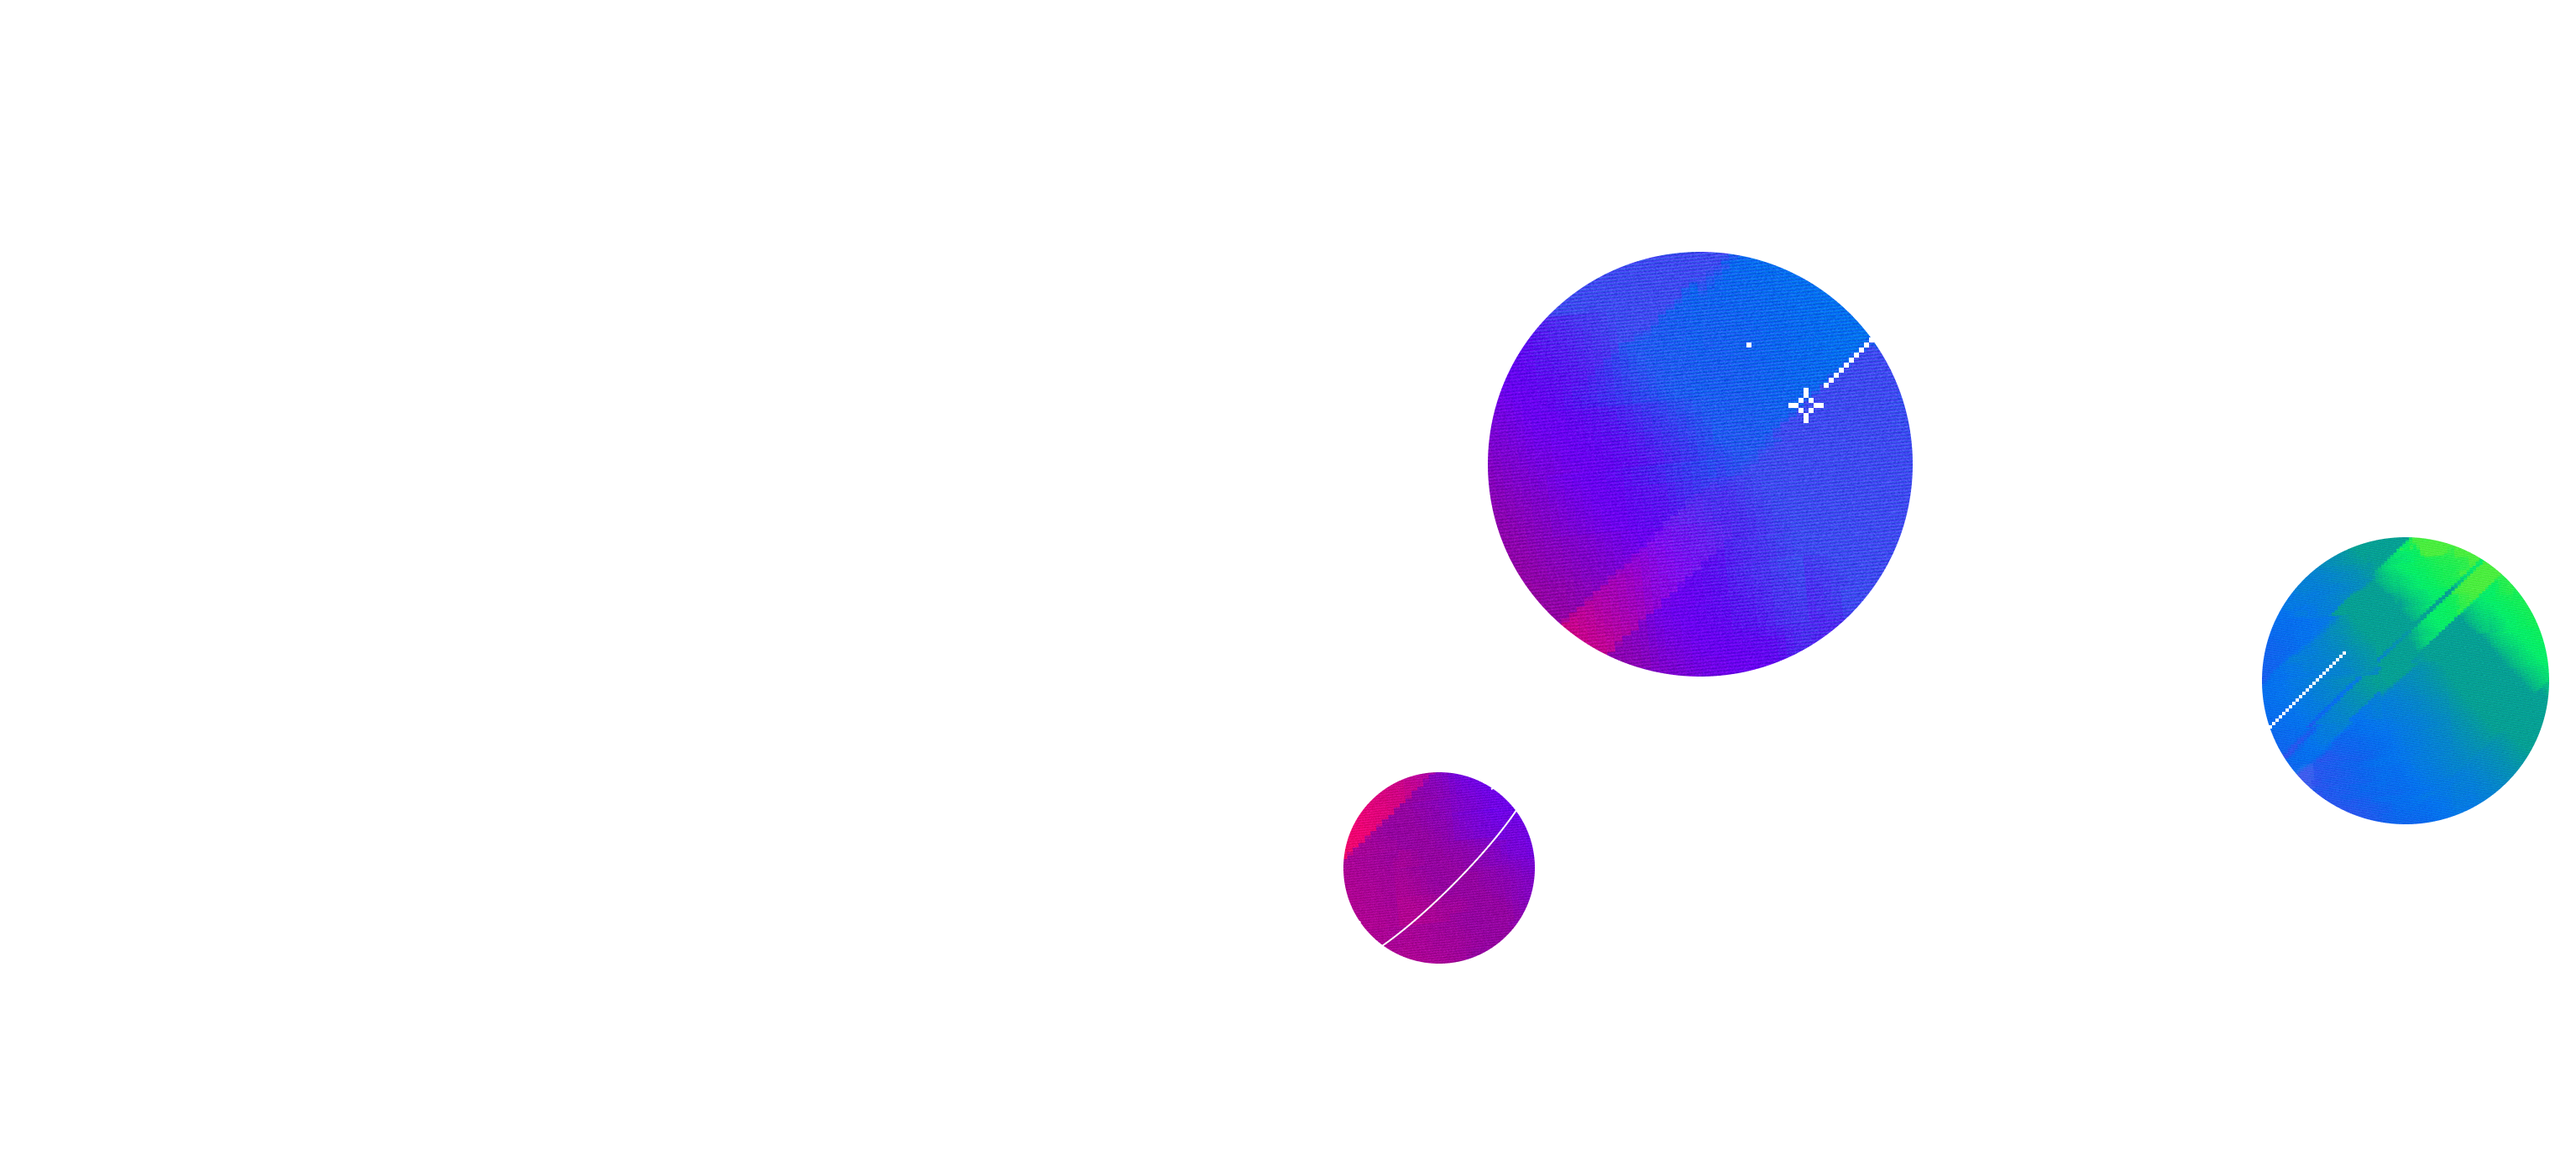
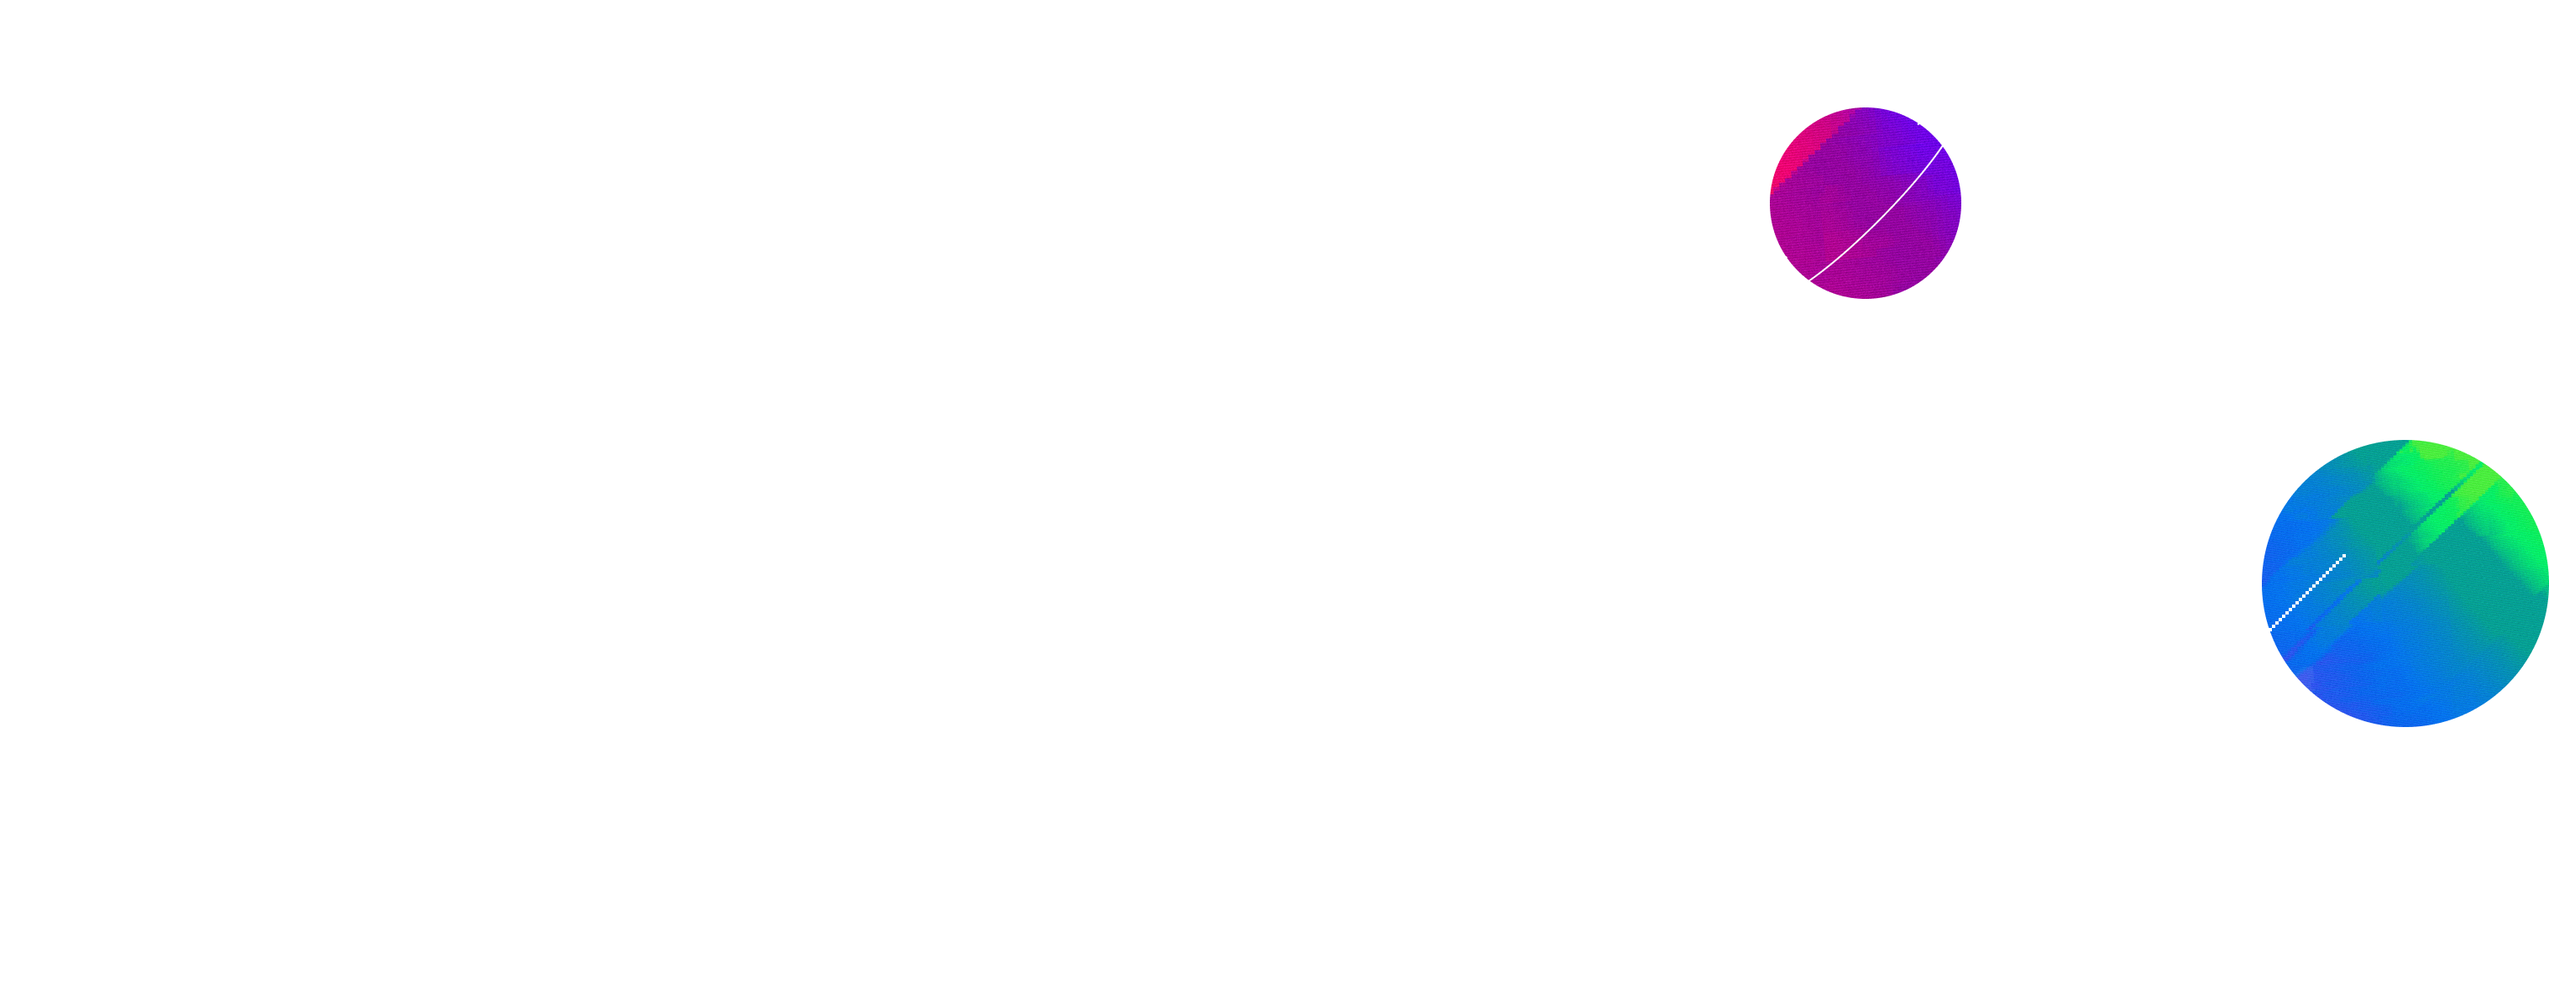
chore(trading): referrals with sidebar

Changed region(s): [[0.5573, 0.0917, 0.774, 0.6112], [0.8669, 0.4278, 1.0, 0.7334], [0.4954, 0.6723, 0.6192, 0.8557]]

diff --git a/apps/trading/client-pages/referrals/landing-banner.tsx b/apps/trading/client-pages/referrals/landing-banner.tsx
@@ -8,22 +8,17 @@ export const LandingBanner = () => {
       <div className="">
         <div
           aria-hidden
-          className="absolute top-64 right-[220px] md:right-[340px] max-sm:hidden"
+          className="absolute top-20 right-[120px] md:right-[240px] max-sm:hidden"
         >
           <AnimatedDudeWithWire />
         </div>
-        <div className="pt-32 sm:w-[50%]">
+        <div className="pt-20 sm:w-[50%]">
           <h1 className="text-6xl font-alpha calt mb-10">
             {t('Earn commission & stake rewards')}
           </h1>
           <p className="text-lg mb-10">
             {t(
-              'Invite friends and earn commission in the form of Vega rewards from the trading fees they pay. Stake those rewards to earn multipliers on future rewards.'
-            )}
-          </p>
-          <p className="text-lg">
-            {t(
-              'Any friends that join using the code will receive discounts off trading fees.'
+              'Invite friends and earn rewards from the trading fees they pay. Stake those rewards to earn multipliers on future rewards.'
             )}
           </p>
         </div>

diff --git a/apps/trading/client-pages/referrals/layout.tsx b/apps/trading/client-pages/referrals/layout.tsx
@@ -2,6 +2,7 @@ import classNames from 'classnames';
 import type { HTMLAttributes } from 'react';
 import { SKY_BACKGROUND } from './constants';
 import { Outlet } from 'react-router-dom';
+import { TinyScroll } from '@vegaprotocol/ui-toolkit';
 
 export const Layout = ({
   className,
@@ -28,8 +29,10 @@ export const LayoutWithSky = ({
   ...props
 }: HTMLAttributes<HTMLDivElement>) => {
   return (
-    <div className={classNames('h-full overflow-auto', SKY_BACKGROUND)}>
+    <TinyScroll
+      className={classNames('max-h-full overflow-auto', SKY_BACKGROUND)}
+    >
       <Layout className={className} {...props} />
-    </div>
+    </TinyScroll>
   );
 };

diff --git a/apps/trading/pages/client-router.tsx b/apps/trading/pages/client-router.tsx
@@ -55,10 +55,14 @@ export const routerConfig: RouteObject[] = compact([
   FLAGS.REFERRALS
     ? {
         path: AppRoutes.REFERRALS,
-        element: <LayoutWithSky />,
+        element: <LayoutWithSidebar sidebar={<PortfolioSidebar />} />,
         children: [
           {
-            element: <Referrals />,
+            element: (
+              <LayoutWithSky>
+                <Referrals />
+              </LayoutWithSky>
+            ),
             children: [
               {
                 index: true,

diff --git a/apps/trading/components/layouts/layout-with-sidebar.tsx b/apps/trading/components/layouts/layout-with-sidebar.tsx
@@ -27,7 +27,7 @@ export const LayoutWithSidebar = ({
     <div className={gridClasses}>
       <div className="col-span-full">{header}</div>
       <main
-        className={classNames('col-start-1 col-end-1', {
+        className={classNames('col-start-1 col-end-1 overflow-hidden', {
           'lg:col-end-3': !sidebarOpen,
           'hidden lg:block lg:col-end-2': sidebarOpen,
         })}
